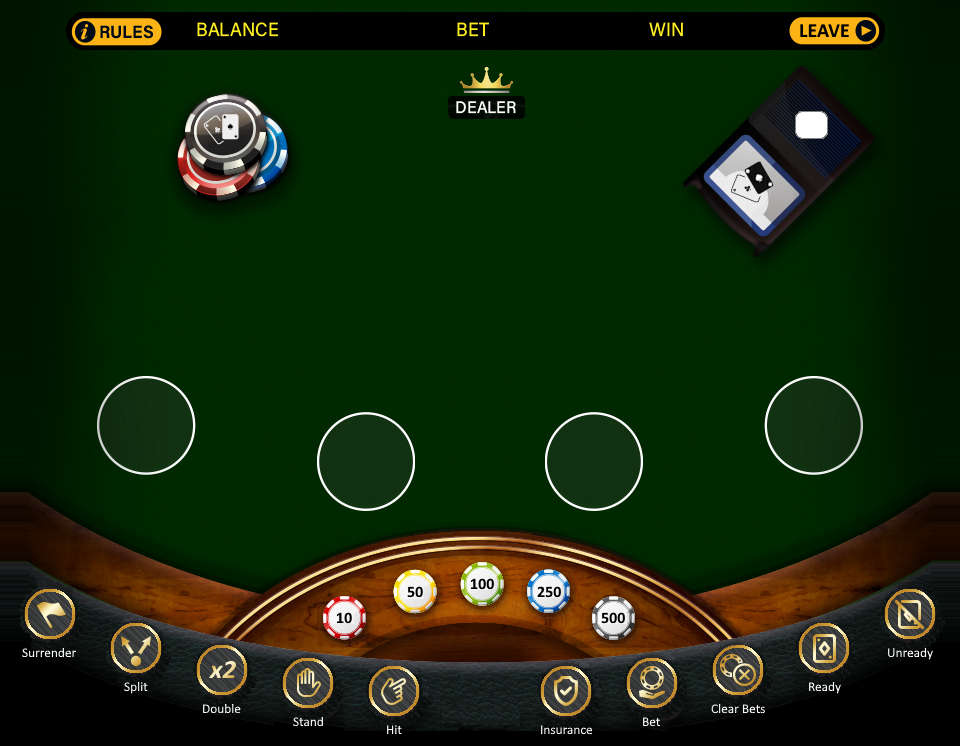
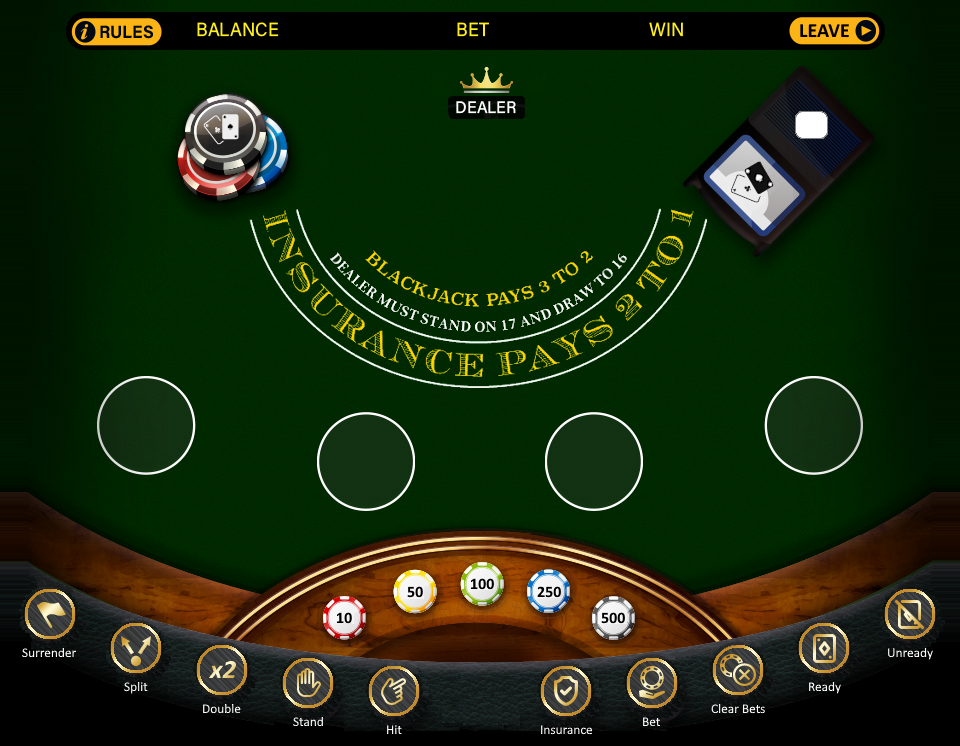
[UPDATE] board img, [ADD] total earnings per player, [ADD] bets per player

Changed region(s): [[0.25, 0.2775, 0.75, 0.5241]]

diff --git a/src/components/game/center/generalgame.js b/src/components/game/center/generalgame.js
@@ -175,8 +175,8 @@ export default function GeneralGame() {
 
     const nonDealerNamePositions = [
         { top: '410px', left: '630px' },
-        { top: '420px', left: '457px' },
-        { top: '420px', left: '274px' },
+        { top: '420px', left: '475px' },
+        { top: '420px', left: '240px' },
         { top: '410px', left: '99px' },
     ];
 
@@ -185,7 +185,7 @@ export default function GeneralGame() {
     return (
         <div>
             <div className="board-container">
-                <img src="/images/board.png" alt="board" className="board-img-style" />
+                <img src="/images/board.png" alt="board" className="board-img-style" draggable="false" />
 
                 <div
                     style={{
@@ -212,22 +212,35 @@ export default function GeneralGame() {
                     {playerBet}
                 </div>
 
+                {/* credits and earnings */}
                 <div>
                     {players
                         .filter(player => player.credits !== null)
                         .map((player, index) => {
                             return (
-                                <div
-                                    key={player.user_id}
-                                    style={{
-                                        position: 'absolute',
-                                        top: '12px',
-                                        left: '235px',
-                                        color: 'white',
-                                        fontWeight: 'bold',
-                                    }}
-                                >
-                                    {player.credits}
+                                <div key={player.user_id}>
+                                    <div
+                                        style={{
+                                            position: 'absolute',
+                                            top: '12px',
+                                            left: '235px',
+                                            color: 'white',
+                                            fontWeight: 'bold',
+                                        }}
+                                    >
+                                        {player.credits}
+                                    </div>
+                                    <div
+                                        style={{
+                                            position: 'absolute',
+                                            top: '12px',
+                                            left: '560px',
+                                            color: 'white',
+                                            fontWeight: 'bold',
+                                        }}
+                                    >
+                                        {player.total_winnings ?? 0}
+                                    </div>
                                 </div>
                             );
                         })}
@@ -277,6 +290,7 @@ export default function GeneralGame() {
                                                                     <img
                                                                         key={cardIndex}
                                                                         src={`/images/cards/${card}`}
+                                                                        draggable="false"
                                                                         alt={`Card ${card}`}
                                                                         style={{
                                                                             width: player.user_id !== 0 ? 35 : 40,
@@ -334,9 +348,29 @@ export default function GeneralGame() {
                                     margin: 0,
                                     color: 'white',
                                     textAlign: 'center',
-                                    textShadow: '1px 1px 0px black, -1px -1px 0px black, 1px -1px 0px black, -1px 1px 0px black'
+                                    textShadow: '1px 1px 0px black, -1px -1px 0px black, 1px -1px 0px black, -1px 1px 0px black',
+                                    display: 'flex', 
+                                    flexDirection: 'column', 
+                                    alignItems: 'center'
                                 }}>
                                     <strong>{player.name}</strong>
+                                    {player.bet !== null && <>
+                                        <div style={{ display: 'flex', alignItems: 'center' }}>
+                                            <svg xmlns="http://www.w3.org/2000/svg" width={20} height={20} viewBox="0 0 24 24" fill="none" stroke="white" strokeWidth={2} strokeLinecap="round" strokeLinejoin="round" style={{ filter: 'drop-shadow(1px 1px 1px rgba(0, 0, 0, 0.5))' }}> {/* Adding drop-shadow to SVG */}
+                                                <path d="M12 12m-9 0a9 9 0 1 0 18 0a9 9 0 1 0 -18 0" />
+                                                <path d="M12 12m-5 0a5 5 0 1 0 10 0a5 5 0 1 0 -10 0" />
+                                                <path d="M12 3v4" />
+                                                <path d="M12 17v4" />
+                                                <path d="M3 12h4" />
+                                                <path d="M17 12h4" />
+                                                <path d="M18.364 5.636l-2.828 2.828" />
+                                                <path d="M8.464 15.536l-2.828 2.828" />
+                                                <path d="M5.636 5.636l2.828 2.828" />
+                                                <path d="M15.536 15.536l2.828 2.828" />
+                                            </svg>
+                                            <span style={{ marginLeft: '5px', color: 'white' }}>{player.bet}</span>
+                                        </div>
+                                    </>}
                                 </p>
                             ))}
                     </div>

diff --git a/src/components/game/center/actions/game_finished.js b/src/components/game/center/actions/game_finished.js
@@ -1,7 +1,26 @@
-export const GameFinished = (message, setPlayers, setEndgameMessage, setWarnOnRefresh) => {
+export const GameFinished = (message, setPlayers, setEndgameMessage, setWarnOnRefresh, userID) => {
     setEndgameMessage(`Game Finished! ${message.User_ID} ${message.Result}.`);
     setWarnOnRefresh(false);
 
+    //update total player earnings
+    if (message.Result === "BLACKJACK" || message.Result === "WIN") {
+        setPlayers(prevPlayers => {
+            return prevPlayers.map(player => {
+                if (player.user_id === message.User_ID && player.credits !== null) {
+                    const winningsToAdd = message.Bet;  
+                    const newTotalWinnings = (player.total_winnings || 0) + winningsToAdd;  
+
+                    return {
+                        ...player,
+                        total_winnings: newTotalWinnings  
+                    };
+                }
+                return player; 
+            });
+        });
+    }
+
+    //display result per hand
     setPlayers(prevPlayers => prevPlayers.map(player => {
         if (player.user_id === message.User_ID) {
             const updatedHands = Array.isArray(player.hands) ? [...player.hands] : [];

diff --git a/src/components/game/center/handleincomingmessage.js b/src/components/game/center/handleincomingmessage.js
@@ -15,7 +15,7 @@ export const handleIncomingMessage = (message, setGroupID, setPlayers, setUserID
             break;
 
         case message.Action === 'GAME_FINISHED':
-            GameFinished(message, setPlayers, setEndgameMessage, setWarnOnRefresh);
+            GameFinished(message, setPlayers, setEndgameMessage, setWarnOnRefresh, userID);
             break;
 
         case message.Action === 'GAME_STARTED':
@@ -31,7 +31,7 @@ export const handleIncomingMessage = (message, setGroupID, setPlayers, setUserID
             break;
 
         case message.Action === 'BET_PLACED':
-            BetPlaced(message, setPlayers, setUserID, setWarnOnRefresh, userID);
+            BetPlaced(message, setPlayers, setWarnOnRefresh);
             break;
 
         case message.Action === 'CARD_DRAWN' || message.Action === 'HIT':

diff --git a/src/components/game/center/actions/bet_placed.js b/src/components/game/center/actions/bet_placed.js
@@ -1,4 +1,4 @@
-export const BetPlaced = (message, setPlayers, setWarnOnRefresh, userID) => {
+export const BetPlaced = (message, setPlayers, setWarnOnRefresh) => {
     setPlayers(prevPlayers => prevPlayers.map(player =>
         player.user_id === message.User_ID
             ? {
